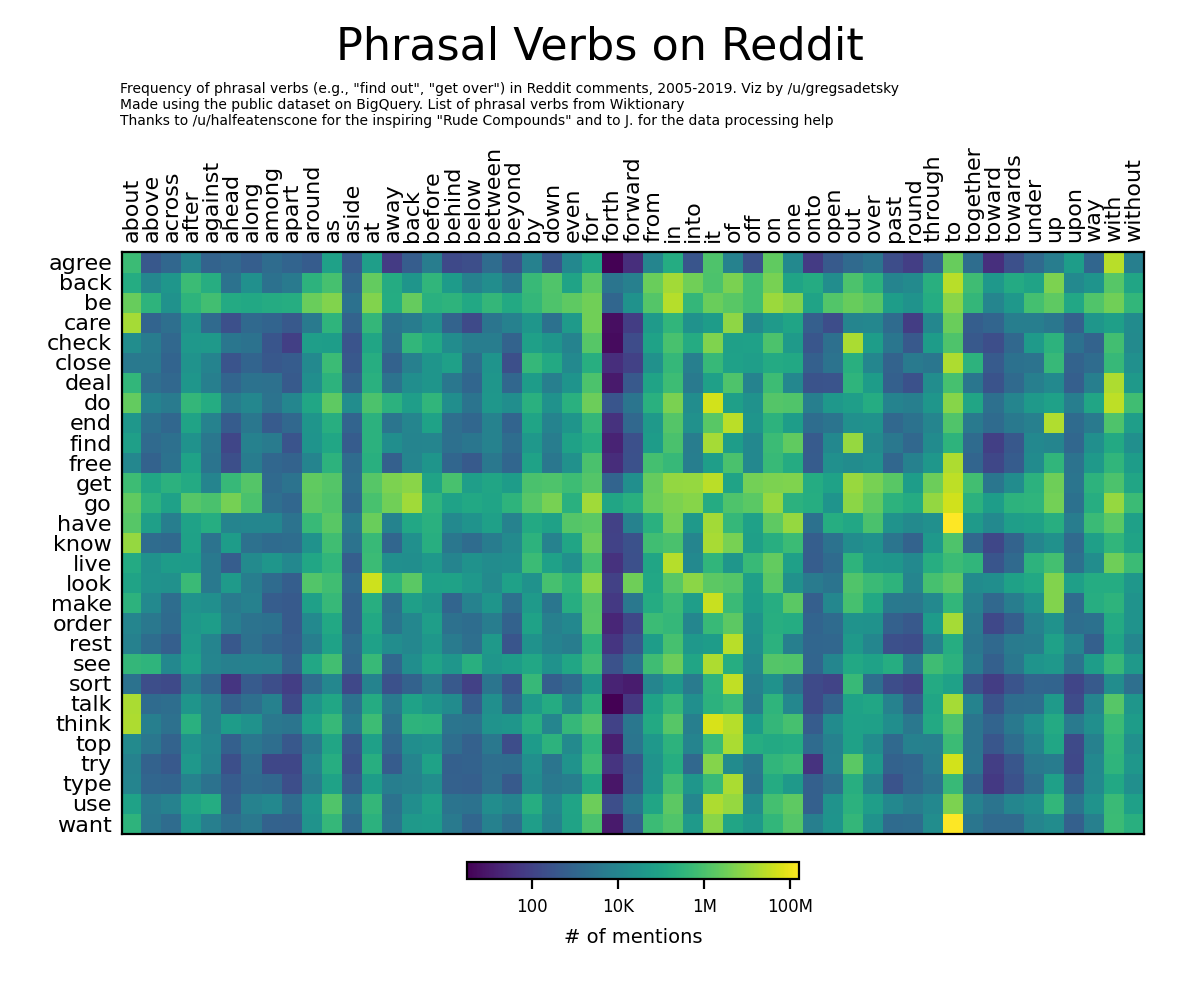
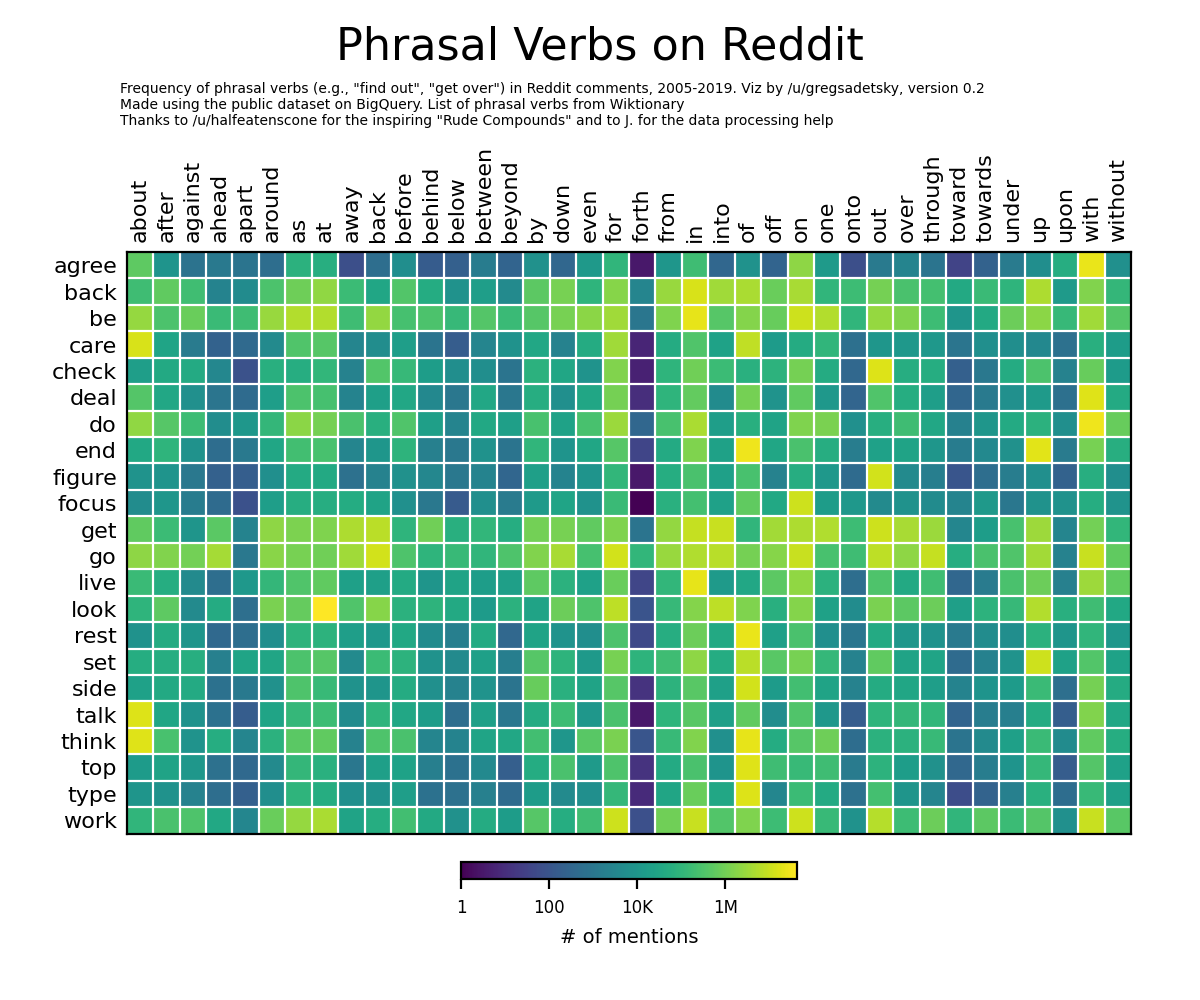
updated version, hopefully improving graph

diff --git a/viz.py b/viz.py
@@ -26,18 +26,23 @@ with open(DATA_PATH) as f:
     })
 
 df = pd.DataFrame(all_rows)
+
 # taken from
 # https://github.com/colinmorris/pejorative-compounds/blob/master/heatmap.py
 df = df.pivot('pre', 'suff', 'count')
+df.fillna(0, inplace=True)
+
+# per reddit request
+# df.to_csv(CURR_DIR / 'data-pivoted.csv', float_format='%.0f', na_rep=0)
 
 # these words did not seem verby-enough to my personal taste.
 # this is an editorial choice that I moderately stand behind.
-df.drop(labels=['even', 'amount', 'chance', 'front', 'happen', 'line', 'man', 'name', 'number', 'part', 'plan', 'point', 'post', 'power', 'reason', 'result', 'shit', 'stuff', 'team', 'time', 'well', 'while',], axis=0, inplace=True)
-df.drop(labels=['aback'], axis=1, inplace=True)
+df.drop(labels=['piece', 'pay', 'sort', 'even', 'amount', 'chance', 'front', 'happen', 'line', 'man', 'name', 'number', 'part', 'plan', 'point', 'post', 'power', 'reason', 'result', 'shit', 'stuff', 'team', 'time', 'well', 'while',], axis=0, inplace=True)
+df.drop(labels=['aside', 'along', 'among', 'aback', 'open', 'together', 'it', 'to', 'past', 'round', 'above', 'across', 'forward', 'way'], axis=1, inplace=True)
 
 # selects a small subset of all verbs
 # a different interesting subset happens when using .mean instead
-df = df[df.max(axis=1) > 14000000]
+df = df[df.max(axis=1) > 10500000]
 
 # reset index, otherwise indices appear in descending alpha order
 df = df.iloc[::-1]
@@ -49,7 +54,7 @@ ax = fig.add_subplot(1, 1, 1)
 
 plt.text(x=0.5, y=0.94, s="Phrasal Verbs on Reddit", fontsize=16, ha="center", transform=fig.transFigure)
 plt.text(x=0.1, y=0.875, s="""
-Frequency of phrasal verbs (e.g., "find out", "get over") in Reddit comments, 2005-2019. Viz by /u/gregsadetsky
+Frequency of phrasal verbs (e.g., "find out", "get over") in Reddit comments, 2005-2019. Viz by /u/gregsadetsky, version 0.2
 Made using the public dataset on BigQuery. List of phrasal verbs from Wiktionary
 Thanks to /u/halfeatenscone for the inspiring "Rude Compounds" and to J. for the data processing help
 """.strip(), fontsize=5, ha="left", transform=fig.transFigure)
@@ -58,6 +63,13 @@ plt.subplots_adjust(top=0.75)
 plot = plt.pcolor(df, norm=colors.LogNorm(clip=True))
 # make it square, thanks to seaborn for the tip
 ax.set_aspect("equal")
+
+
+# based on feedback from reddit users and a suggestion by /u/halfeatenscone
+for i in range(1, df.shape[1]):
+  ax.axvline(i, color='white', lw=0.8)
+for i in range(1, df.shape[0]):
+  ax.axhline(i, color='white', lw=0.8)
 
 
 # from https://stackoverflow.com/a/7039989
